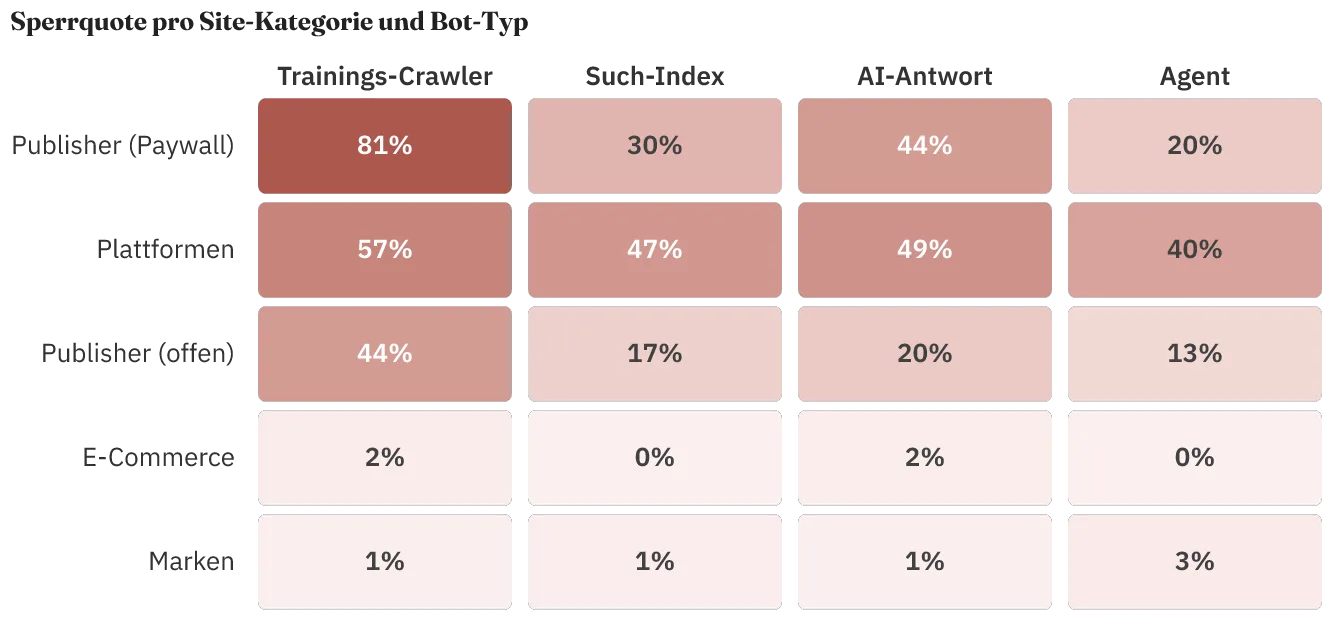
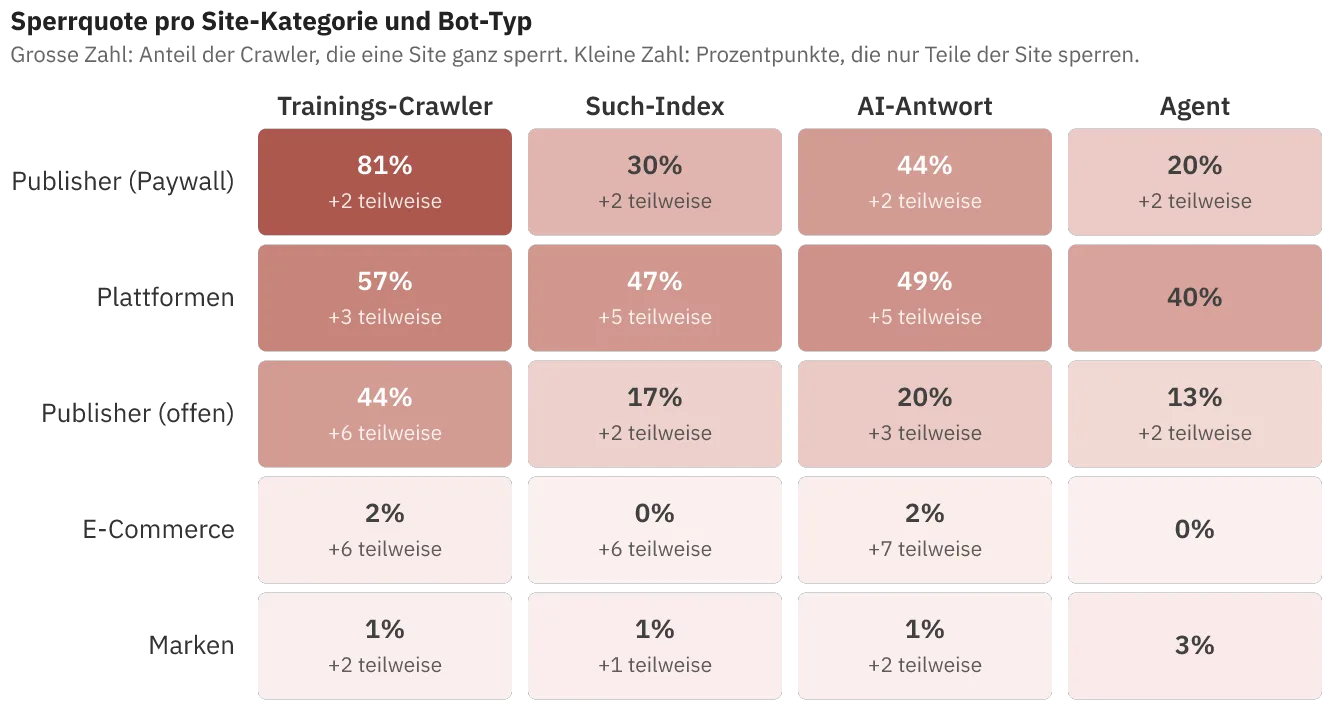
Perspektive robots.txt: Heatmap zeigt Teilsperren als zweite Zahl
Die Farbe zeigt weiter nur ganze Sperren, die kleine Zahl in der Zelle die
Prozentpunkte, die nur Teile einer Site sperren (SELECTIVE). Preset
aggregated_block_quote bekommt render.annotate: selective_share, damit
kuenftige Radar-Heatmaps die Kategorie ebenfalls tragen.

Claude-Session: https://claude.ai/code/session_014xHypxZYuihxATejyLoqQW

diff --git a/src/content/perspektiven/robots-txt-vertragsklausel.md b/src/content/perspektiven/robots-txt-vertragsklausel.md
@@ -14,7 +14,7 @@ Im August haben SRF und RTS je acht von neun Trainings-Crawlern ausgesperrt, von
 
 Ich beobachte das über ein eigenes Monitoring: Alle 14 Tage liest ein automatischer Lauf die robots.txt von 108 Sites mit Schwerpunkt Schweiz und Europa und wertet sie gegen 20 AI-Crawler aus. Die Ergebnisse stehen im [AI-Crawler-Radar](/ai-crawler-radar/) auf fumu.ch. Die Werte aus dem Radar geben hier den Stand vom 17. August wieder, den aktuellen zeigt das Radar selbst.
 
-![Heatmap der Sperrquote pro Site-Kategorie und Bot-Typ: Paywall-Publisher sperren Trainings-Crawler zu 81 Prozent, Plattformen blockieren breit über alle Bot-Typen, Brands und E-Commerce sperren praktisch nichts. 108 Sites × 20 AI-Crawler, Snapshot 17. August 2026, fumu Eigenerhebung.](/images/perspektiven/robots-txt-vertragsklausel-heatmap.webp)
+![Heatmap der Sperrquote pro Site-Kategorie und Bot-Typ: Paywall-Publisher sperren Trainings-Crawler zu 81 Prozent, Plattformen blockieren breit über alle Bot-Typen, Brands und E-Commerce sperren praktisch nichts ganz. Kleine Zahlen nennen die Prozentpunkte, die nur Teile einer Site sperren. 108 Sites × 20 AI-Crawler, Snapshot 17. August 2026, fumu Eigenerhebung.](/images/perspektiven/robots-txt-vertragsklausel-heatmap.webp)
 
 *Quelle: fumu Eigenerhebung, 108 Sites und 20 AI-Crawler, Snapshot 17. August 2026.*
 
